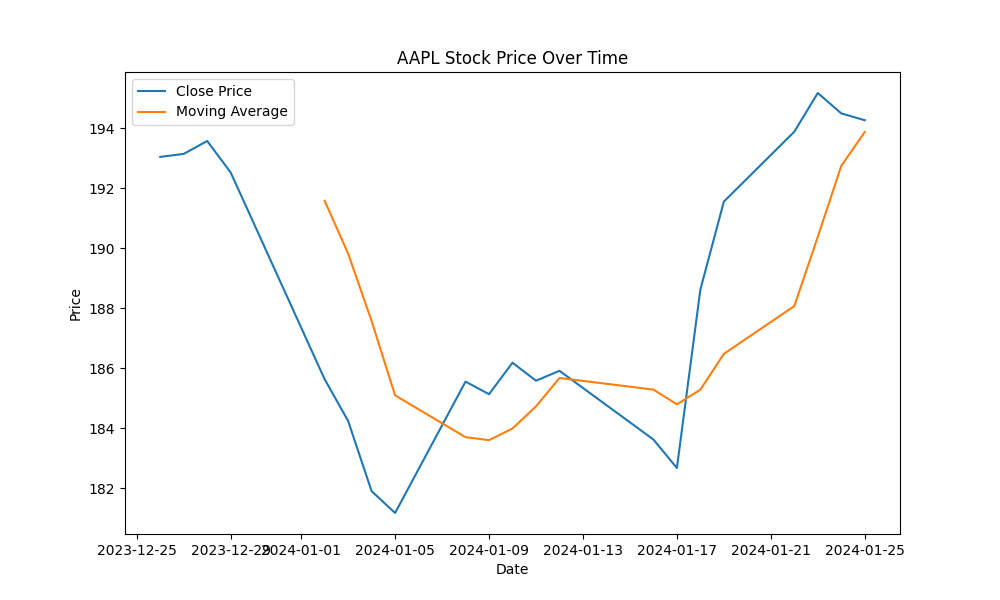
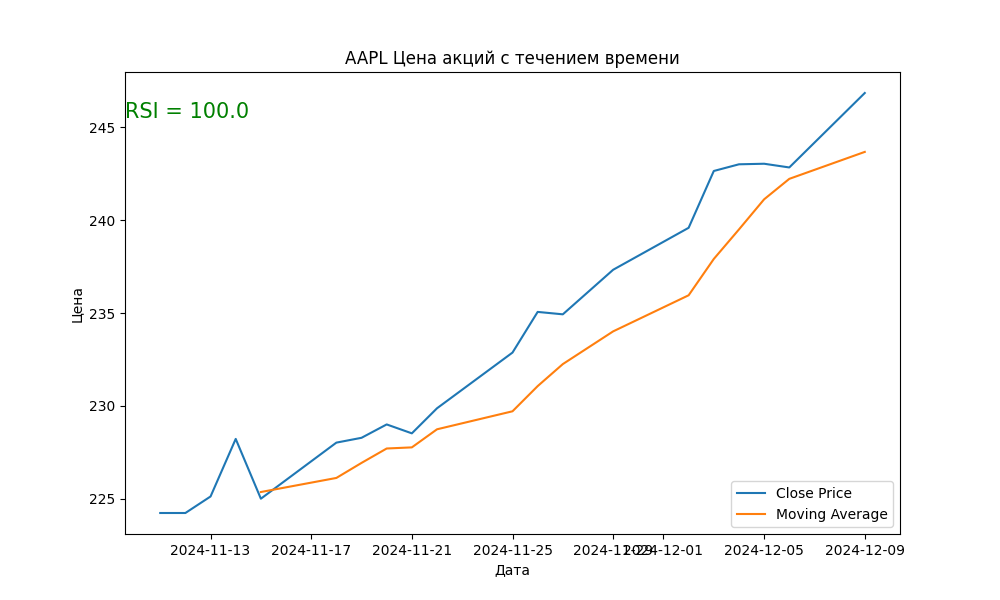
ОцÐРасчёт RSÐI и вывод его на плоттер

diff --git a/data_plotting.py b/data_plotting.py
@@ -1,6 +1,8 @@
 import matplotlib.pyplot as plt
 import pandas as pd
 
+import data_download as dd
+
 
 def create_and_save_plot(data, ticker, period, filename=None):
     '''
@@ -29,6 +31,9 @@ def create_and_save_plot(data, ticker, period, filename=None):
         plt.plot(data['Date'], data['Moving_Average'], label='Moving Average')
 
     plt.title(f"{ticker} Цена акций с течением времени")
+
+    plt.text(x=0, y=0.9, s=f'RSI = {dd.indicator_rsi(data, len(data))}', fontsize=15, color='green',
+             transform=plt.gca().transAxes)
     plt.xlabel("Дата")
     plt.ylabel("Цена")
     plt.legend()

diff --git a/data_download.py b/data_download.py
@@ -1,4 +1,5 @@
 import yfinance as yf
+from technical_indicator.momentum import RSI
 
 
 def fetch_stock_data(ticker, period='1mo'):
@@ -54,3 +55,14 @@ def export_data_to_csv(data, filename):
     :return: None
     '''
     data.to_csv(f'{filename}.csv')
+
+
+def indicator_rsi(data, period=14):
+    '''
+    Расчёт RSI за указзанный период
+    :param data: DataFrame
+    :param period: Период RSI
+    :return: значение RSI за указанный период
+    '''
+    rsi = RSI(list(data['Close']), period)
+    return rsi.calculate_rsi()

diff --git a/main.py b/main.py
@@ -24,5 +24,6 @@ def main():
     dd.notify_if_strong_fluctuations(stock_data, threshold)
     dd.export_data_to_csv(stock_data, file_name_csv)
 
+
 if __name__ == "__main__":
     main()
